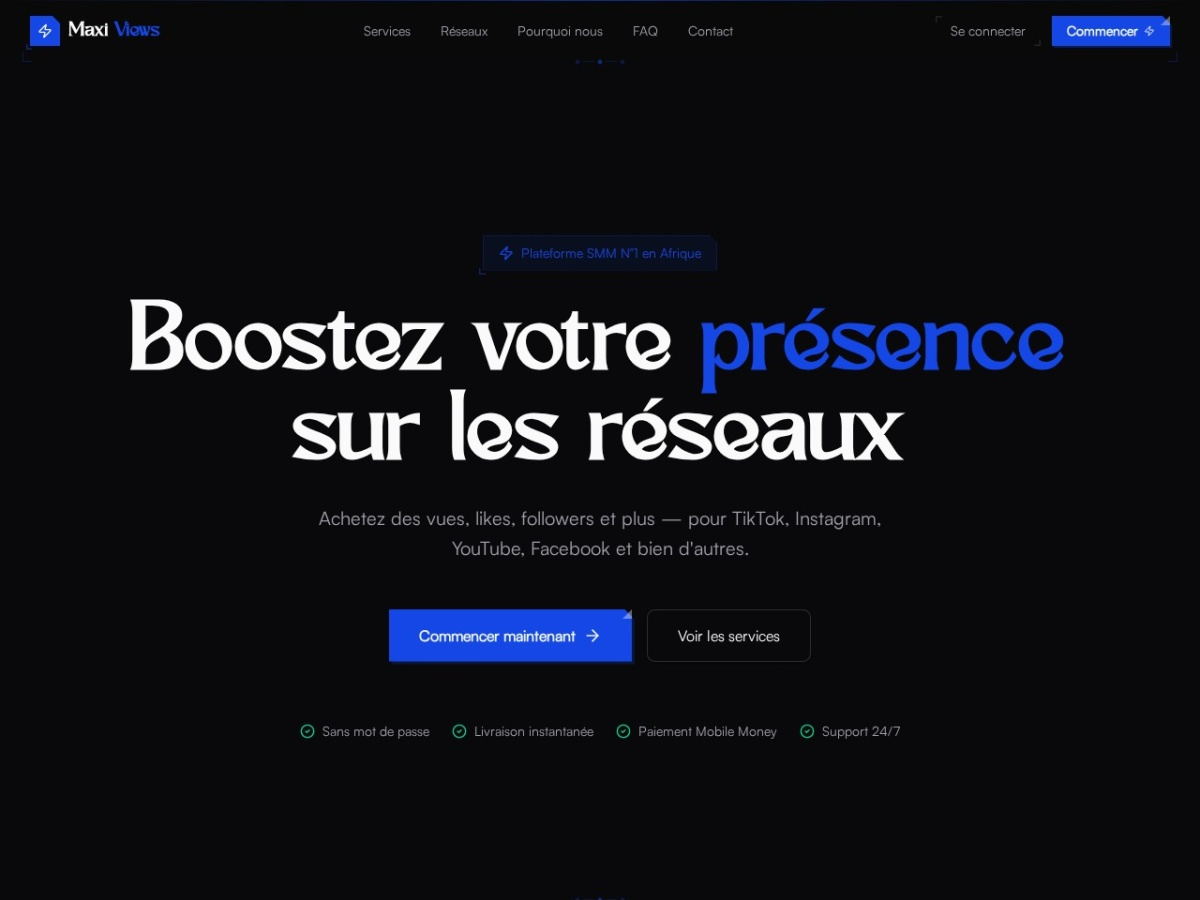
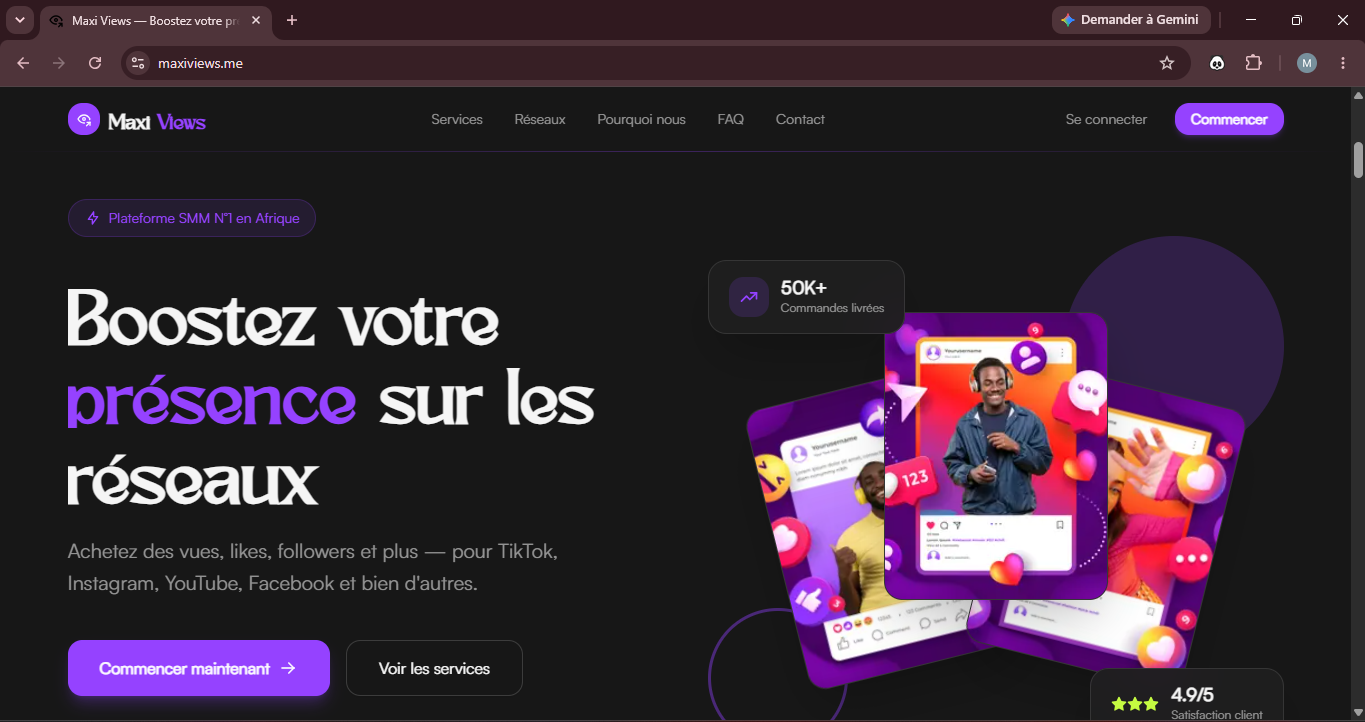
feat: update Maxi Views portfolio entry
Reflect the real production project: correct domain, FeexPay/Better
Auth/Resend tags instead of the outdated Clerk mention, and a fresh
screenshot. Now featured on the homepage.

diff --git a/src/data/projects.ts b/src/data/projects.ts
@@ -144,16 +144,18 @@ export const projects: Project[] = [
     {
         id: "maxi-views",
         title: "Maxi Views",
-        desc: "Vues, likes, followers : la plateforme SMM qui booste une présence sociale sans mot de passe ni friction.",
+        desc: "Vues, likes, abonnés : la plateforme SMM payable en Mobile Money (FeexPay) partout en Afrique de l'Ouest, avec portefeuille client et tableau de bord analytique complet pour l'admin.",
         tags: [
             { label: "Next.js", bg: "bg-brand", color: "text-white" },
-            { label: "Clerk", bg: "bg-purple", color: "text-white" },
+            { label: "FeexPay", bg: "bg-dark", color: "text-lime" },
+            { label: "Better Auth", bg: "bg-purple", color: "text-white" },
+            { label: "Resend", bg: "bg-purple", color: "text-white" },
             yearTag(2026),
         ],
         image: "/projects/maxi-views.png",
-        url: "https://maxi-views.vercel.app",
+        url: "https://www.maxiviews.me",
         photoBg: "bg-brand",
-        featured: false,
+        featured: true,
     },
     {
         id: "well-steven",
